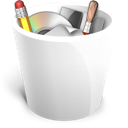
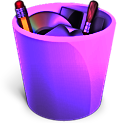
Added progress bar to user page, changed the bucket images

diff --git a/templates/user.html b/templates/user.html
@@ -5,9 +5,17 @@
 {% block body %}
     <body>
         <div class="overlap-fix container">
-        <h1>Dashboard</h1>  
+        <h1>Welcome To Your Dashboard!</h1>  
         </div>
 
+    <div class = "span12">
+        <h1>Your Progress</h1>
+        {%  for activity in info['bucket'] %}   
+        <div class="progress">
+                <div class="bar bar-success" style={{"width:"+str(len(info['bucket']))+"%;"}}></div>
+                <div class="bar bar-danger" style={{"width:"+str(len(activity))+"%;"}}></div>
+            </div>
+        </div>
         
         <div class="row">
             <h1>Created By You</h1>
@@ -27,7 +35,7 @@
             </div>
 
 
-            <div class="span4">
+            <div class="span6">
                 <h1>Your Bucket</h1>
                 {%  for activity in info['bucket'] %}
 
@@ -44,12 +52,6 @@
                 {% end %}
             </div>
 
-            <div class="progress">
-                <div class="bar bar-success" style="width: 35%;"></div>
-                <div class="bar bar-danger" style="width: 20%;"></div>
-            </div>
-
-
             <div class="span4"
                 <h1>Recommended For You</h1>
                 {% for activity in info['recommendations'] %}
@@ -62,7 +64,7 @@
                     <div class="hr"></div>
                 {% end %}
             </div>
-
+            {% end %}
 
 
         </div>
